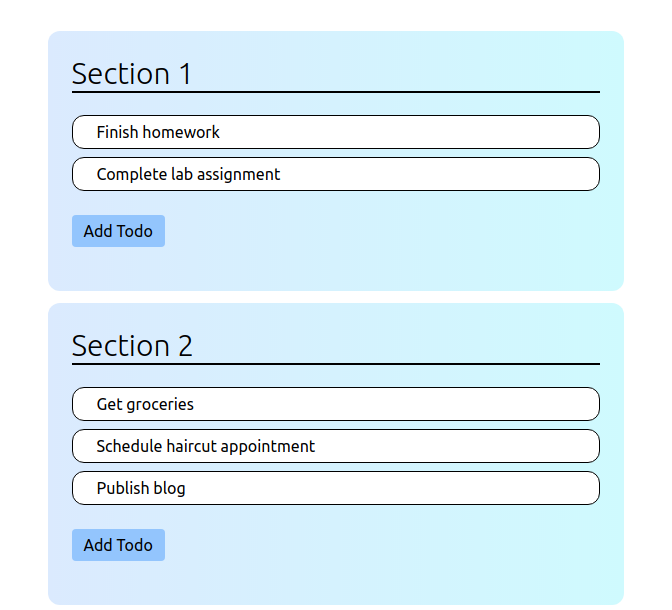
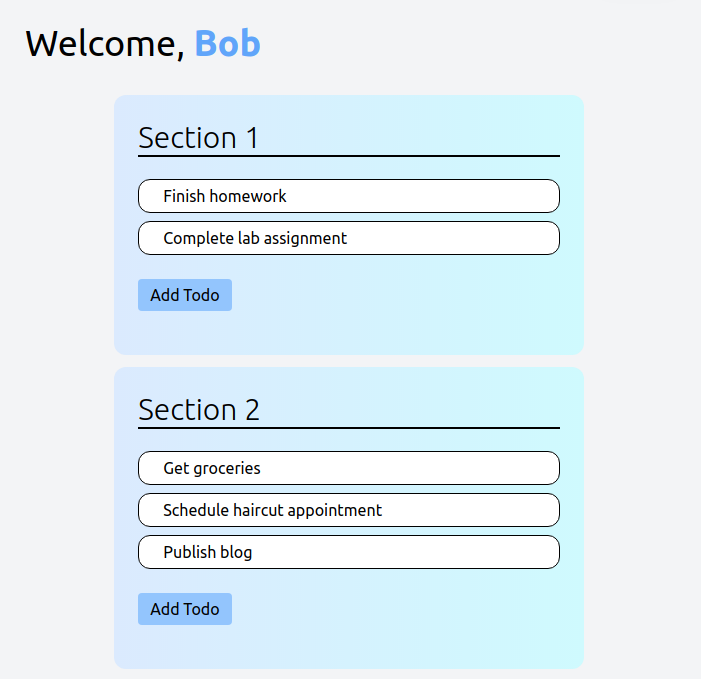
Finished main page. Added code to make website look better when the screen gets smaller.

diff --git a/app/assets/css/main.css b/app/assets/css/main.css
@@ -632,7 +632,7 @@ video {
 
 .section-container {
   margin-bottom: 0.75rem;
-  width: 50%;
+  width: 66.666667%;
   max-width: 36rem;
   border-radius: 0.75rem;
   background-image: linear-gradient(to right, var(--tw-gradient-stops));
@@ -690,8 +690,8 @@ video {
   margin-right: auto;
 }
 
-.-mt-8 {
-  margin-top: -2rem;
+.-mt-11 {
+  margin-top: -2.75rem;
 }
 
 .mb-6 {
@@ -702,8 +702,12 @@ video {
   margin-bottom: 0.75rem;
 }
 
-.mt-10 {
-  margin-top: 2.5rem;
+.mt-8 {
+  margin-top: 2rem;
+}
+
+.ml-7 {
+  margin-left: 1.75rem;
 }
 
 .mt-16 {
@@ -716,34 +720,6 @@ video {
 
 .-mt-16 {
   margin-top: -4rem;
-}
-
-.mt-5 {
-  margin-top: 1.25rem;
-}
-
-.mt-8 {
-  margin-top: 2rem;
-}
-
-.ml-10 {
-  margin-left: 2.5rem;
-}
-
-.ml-20 {
-  margin-left: 5rem;
-}
-
-.ml-40 {
-  margin-left: 10rem;
-}
-
-.mt-3 {
-  margin-top: 0.75rem;
-}
-
-.ml-7 {
-  margin-left: 1.75rem;
 }
 
 .block {
@@ -768,6 +744,10 @@ video {
 
 .h-24 {
   height: 6rem;
+}
+
+.h-2 {
+  height: 0.5rem;
 }
 
 .h-96 {
@@ -838,10 +818,6 @@ video {
   justify-content: flex-start;
 }
 
-.justify-end {
-  justify-content: flex-end;
-}
-
 .justify-center {
   justify-content: center;
 }
@@ -872,6 +848,12 @@ video {
   --tw-space-y-reverse: 0;
   margin-top: calc(0.5rem * calc(1 - var(--tw-space-y-reverse)));
   margin-bottom: calc(0.5rem * var(--tw-space-y-reverse));
+}
+
+.space-y-16 > :not([hidden]) ~ :not([hidden]) {
+  --tw-space-y-reverse: 0;
+  margin-top: calc(4rem * calc(1 - var(--tw-space-y-reverse)));
+  margin-bottom: calc(4rem * var(--tw-space-y-reverse));
 }
 
 .space-x-20 > :not([hidden]) ~ :not([hidden]) {
@@ -924,6 +906,11 @@ video {
   border-bottom-left-radius: 0.75rem;
 }
 
+.rounded-t-full {
+  border-top-left-radius: 9999px;
+  border-top-right-radius: 9999px;
+}
+
 .rounded-b-md {
   border-bottom-right-radius: 0.375rem;
   border-bottom-left-radius: 0.375rem;
@@ -942,6 +929,11 @@ video {
   border-color: rgb(0 0 0 / var(--tw-border-opacity));
 }
 
+.bg-white {
+  --tw-bg-opacity: 1;
+  background-color: rgb(255 255 255 / var(--tw-bg-opacity));
+}
+
 .bg-blue-400 {
   --tw-bg-opacity: 1;
   background-color: rgb(96 165 250 / var(--tw-bg-opacity));
@@ -952,6 +944,16 @@ video {
   background-color: rgb(0 0 0 / var(--tw-bg-opacity));
 }
 
+.bg-gray-100 {
+  --tw-bg-opacity: 1;
+  background-color: rgb(243 244 246 / var(--tw-bg-opacity));
+}
+
+.bg-blue-200 {
+  --tw-bg-opacity: 1;
+  background-color: rgb(191 219 254 / var(--tw-bg-opacity));
+}
+
 .bg-transparent {
   background-color: transparent;
 }
@@ -959,16 +961,6 @@ video {
 .bg-loginBlue {
   --tw-bg-opacity: 1;
   background-color: rgb(0 91 177 / var(--tw-bg-opacity));
-}
-
-.bg-gray-100 {
-  --tw-bg-opacity: 1;
-  background-color: rgb(243 244 246 / var(--tw-bg-opacity));
-}
-
-.bg-white {
-  --tw-bg-opacity: 1;
-  background-color: rgb(255 255 255 / var(--tw-bg-opacity));
 }
 
 .bg-gray-50 {
@@ -1061,11 +1053,6 @@ video {
   padding-bottom: 3rem;
 }
 
-.py-20 {
-  padding-top: 5rem;
-  padding-bottom: 5rem;
-}
-
 .py-2 {
   padding-top: 0.5rem;
   padding-bottom: 0.5rem;
@@ -1095,6 +1082,10 @@ video {
   padding-top: 0.75rem;
 }
 
+.pb-3 {
+  padding-bottom: 0.75rem;
+}
+
 .pt-10 {
   padding-top: 2.5rem;
 }
@@ -1121,10 +1112,6 @@ video {
 
 .pt-8 {
   padding-top: 2rem;
-}
-
-.pl-10 {
-  padding-left: 2.5rem;
 }
 
 .text-left {
@@ -1292,6 +1279,42 @@ video {
 
 .group:hover .group-hover\:max-w-full {
   max-width: 100%;
+}
+
+@media (min-width: 768px) {
+  .md\:mt-11 {
+    margin-top: 2.75rem;
+  }
+
+  .md\:flex-row {
+    flex-direction: row;
+  }
+
+  .md\:items-start {
+    align-items: flex-start;
+  }
+
+  .md\:space-x-6 > :not([hidden]) ~ :not([hidden]) {
+    --tw-space-x-reverse: 0;
+    margin-right: calc(1.5rem * var(--tw-space-x-reverse));
+    margin-left: calc(1.5rem * calc(1 - var(--tw-space-x-reverse)));
+  }
+
+  .md\:space-y-0 > :not([hidden]) ~ :not([hidden]) {
+    --tw-space-y-reverse: 0;
+    margin-top: calc(0px * calc(1 - var(--tw-space-y-reverse)));
+    margin-bottom: calc(0px * var(--tw-space-y-reverse));
+  }
+
+  .md\:px-4 {
+    padding-left: 1rem;
+    padding-right: 1rem;
+  }
+
+  .md\:py-20 {
+    padding-top: 5rem;
+    padding-bottom: 5rem;
+  }
 }
 
 @media (min-width: 1280px) {

diff --git a/src/input.css b/src/input.css
@@ -28,7 +28,7 @@
 
 @layer components {
     .section-container{
-      @apply px-6 py-6 mb-3 w-1/2 max-w-xl rounded-xl bg-gradient-to-r from-blue-100 to-cyan-100;
+      @apply px-6 py-6 mb-3 w-2/3 max-w-xl rounded-xl bg-gradient-to-r from-blue-100 to-cyan-100;
     }
   }
 
